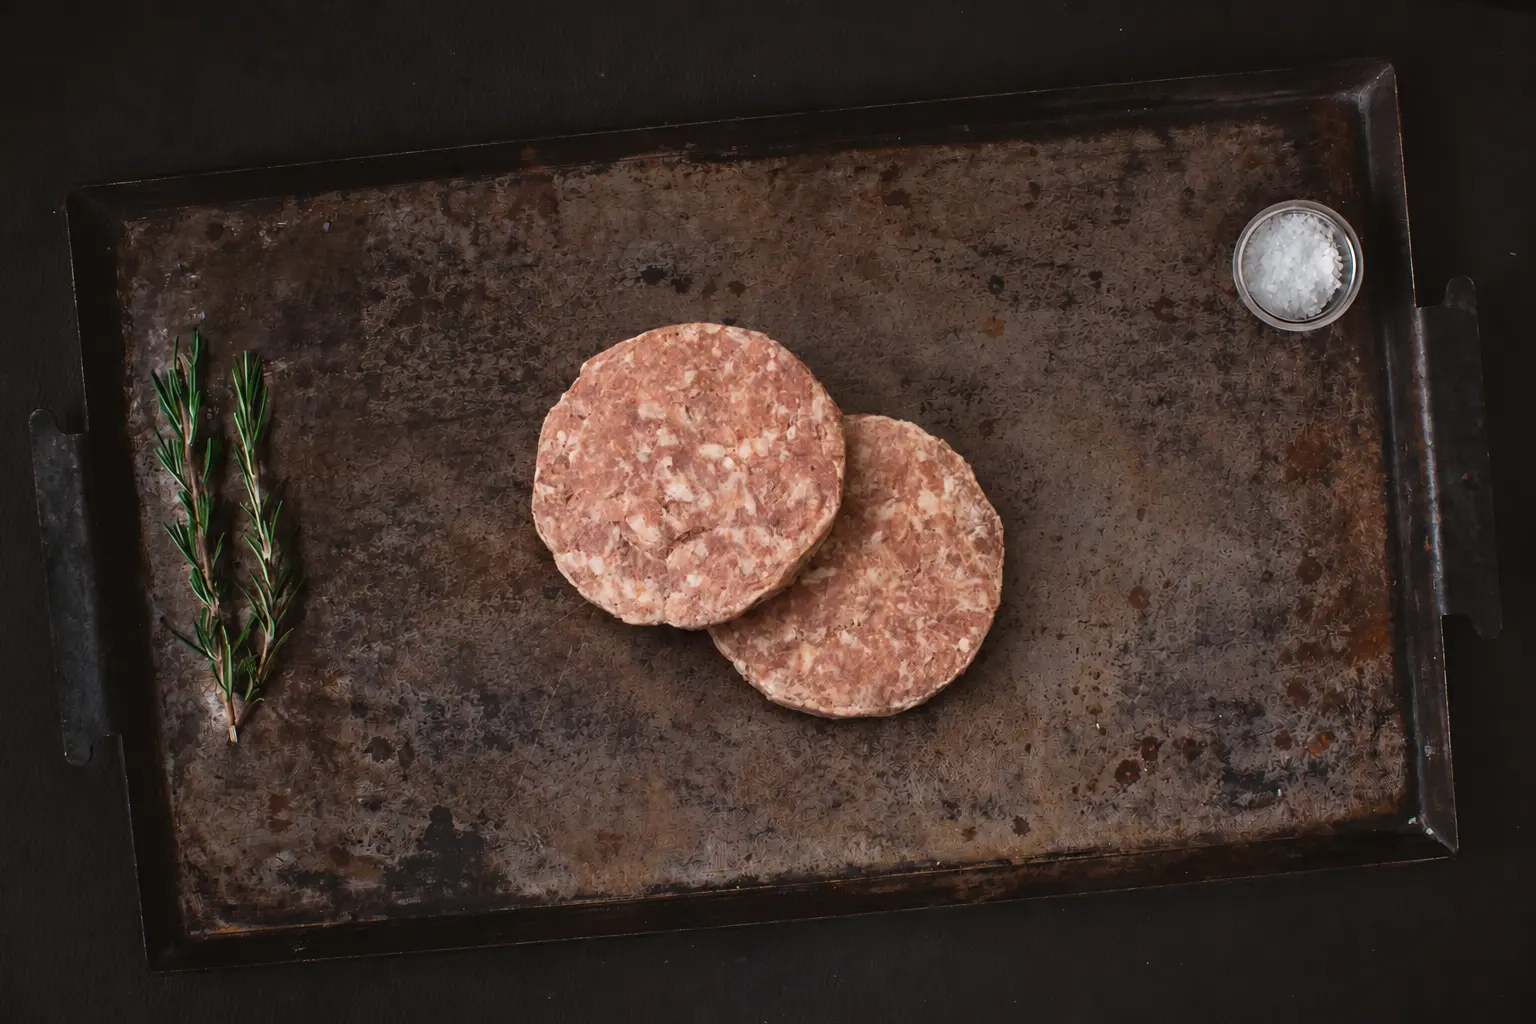
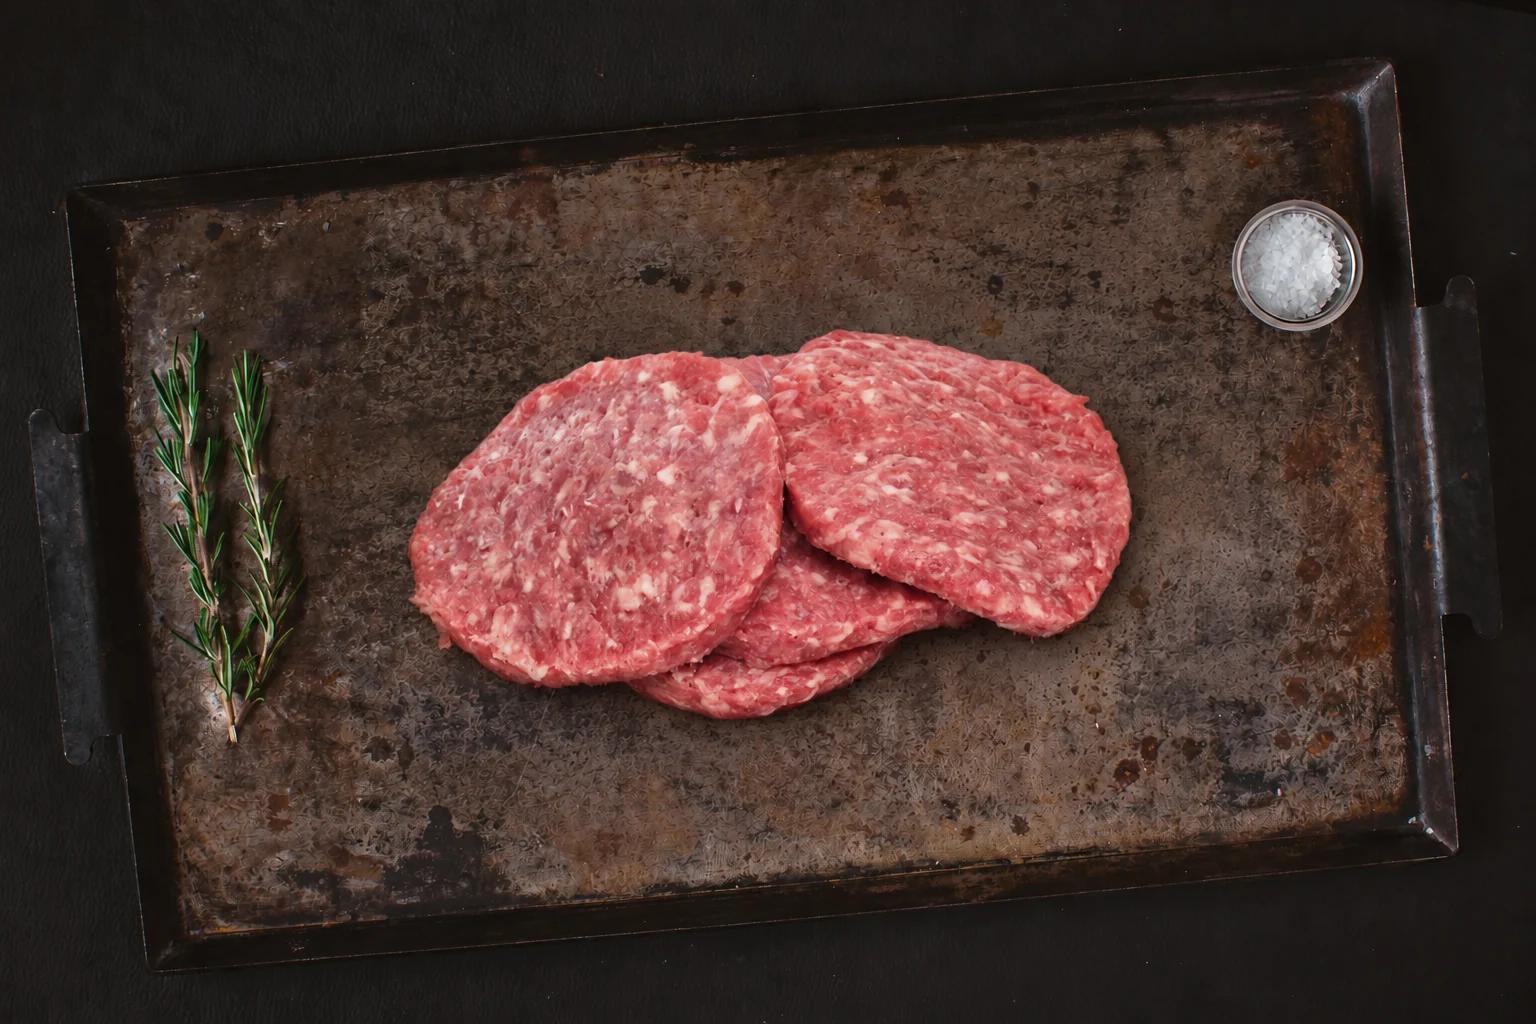
Actualizar foto de Hamburguesa de cerdo

diff --git a/como-comprar.html b/como-comprar.html
@@ -43,6 +43,6 @@
 <div><h5>Ayuda</h5><ul><li><a href="como-comprar.html">Cómo comprar</a></li><li><a href="index.html#zona-cobertura">Zonas de envío</a></li></ul></div>
 <div><h5>Contacto</h5><ul><li>WhatsApp: 11 2177-3350</li><li>info@ganaderapanamericana.com</li><li>Lun a Sáb · 8:00 a 17:00 hs</li></ul></div>
 </div></div><div class="footer-bottom"><div class="container">© 2024 Ganadera Panamericana — Todos los derechos reservados</div></div></footer>
-<script src="https://cdn.jsdelivr.net/npm/fuse.js@7.0.0/dist/fuse.min.js"></script><script src="assets/js/main.js?v=20260921-1"></script>
+<script src="https://cdn.jsdelivr.net/npm/fuse.js@7.0.0/dist/fuse.min.js"></script><script src="assets/js/main.js?v=20260921-2"></script>
 <div id="carrito-overlay" class="carrito-overlay"></div><div id="carrito-drawer" class="carrito-drawer"><div class="carrito-header"><h3>Tu pedido</h3><button onclick="cerrarCarrito()">✕</button></div><div id="carrito-empty" class="carrito-empty">Todavía no agregaste productos.</div><div id="carrito-items" class="carrito-items"></div><div class="carrito-footer"><div class="carrito-total-row"><span>Total estimado</span><span id="carrito-total">$ 0</span></div><button class="btn-finalizar" onclick="finalizarPedido()"><img src="assets/img/whatsapp.png" alt=""> Finalizar pedido por WhatsApp</button></div></div>
 </body></html>

diff --git a/assets/js/main.js b/assets/js/main.js
@@ -47,7 +47,7 @@ const IMAGENES_PRODUCTOS = {
   "Paleta de cerdo": "assets/img/cerdo/paleta-de-cerdo.webp",
   "Carre americano": "assets/img/cerdo/carre-americano.webp",
   "Colita de cuadril de cerdo": "assets/img/cerdo/colita-de-cuadril-cerdo.webp",
-  "Hamburguesa de cerdo": "assets/img/productos/hamburguesa-de-cerdo-bandeja.webp",
+  "Hamburguesa de cerdo": "https://raw.githubusercontent.com/135acostatomas-ia/WebGanadera/main/assets/img/productos/hamburguesa-de-cerdo-bandeja.webp?v=20260921-1",
   "Nuggets": "https://raw.githubusercontent.com/135acostatomas-ia/WebGanadera/main/assets/img/productos/nuggets-bandeja.webp?v=20260918-4",
   "Provoletta Parrillera en cazuela": "https://raw.githubusercontent.com/135acostatomas-ia/WebGanadera/main/assets/img/almacen-y-fiambreria/provoletta-parrillera-cazuela.webp?v=20260918-2",
 };

diff --git a/sucursales.html b/sucursales.html
@@ -182,7 +182,7 @@
 <button class="carrito-float" onclick="abrirCarrito()">🛒<span class="float-badge" id="float-carrito-badge" style="display:none">0</span></button>
 
 <script src="https://cdn.jsdelivr.net/npm/fuse.js@7.0.0/dist/fuse.min.js"></script> 
-<script src="assets/js/main.js?v=20260921-1"></script>
+<script src="assets/js/main.js?v=20260921-2"></script>
 <div id="carrito-overlay" class="carrito-overlay"></div>
 <div id="carrito-drawer" class="carrito-drawer">
   <div class="carrito-header"><h3>Tu pedido</h3><button onclick="cerrarCarrito()">✕</button></div>

diff --git a/mayorista.html b/mayorista.html
@@ -156,7 +156,7 @@
 <button class="carrito-float" onclick="abrirCarrito()">🛒<span class="float-badge" id="float-carrito-badge" style="display:none">0</span></button>
 
 <script src="https://cdn.jsdelivr.net/npm/fuse.js@7.0.0/dist/fuse.min.js"></script> 
-<script src="assets/js/main.js?v=20260921-1"></script>
+<script src="assets/js/main.js?v=20260921-2"></script>
 <script>
 const APPS_SCRIPT_URL = "https://script.google.com/macros/s/AKfycbzSAq1rG-P0xz_pxe0WgkiUXMC8z3wLyiZAOaLOxf3y4uj7EUpUScp-Lgmfv7oFIUY/exec";
 

diff --git a/catalogo.html b/catalogo.html
@@ -130,7 +130,7 @@
 </button>
 
 <script src="https://cdn.jsdelivr.net/npm/fuse.js@7.0.0/dist/fuse.min.js"></script> 
-<script src="assets/js/main.js?v=20260921-1"></script>
+<script src="assets/js/main.js?v=20260921-2"></script>
  
 <div id="carrito-overlay" class="carrito-overlay"></div>
 <div id="carrito-drawer" class="carrito-drawer">

diff --git a/ofertas.html b/ofertas.html
@@ -98,7 +98,7 @@
 </button>
 
 <script src="https://cdn.jsdelivr.net/npm/fuse.js@7.0.0/dist/fuse.min.js"></script>
-<script src="assets/js/main.js?v=20260921-1"></script>
+<script src="assets/js/main.js?v=20260921-2"></script>
 
 <div id="carrito-overlay" class="carrito-overlay"></div>
 <div id="carrito-drawer" class="carrito-drawer">

diff --git a/index.html b/index.html
@@ -261,7 +261,7 @@
 </button>
  
 <script src="https://cdn.jsdelivr.net/npm/fuse.js@7.0.0/dist/fuse.min.js"></script>
-<script src="assets/js/main.js?v=20260921-1"></script>
+<script src="assets/js/main.js?v=20260921-2"></script>
  
 <!-- OVERLAY -->
 <div id="carrito-overlay" class="carrito-overlay"></div>
